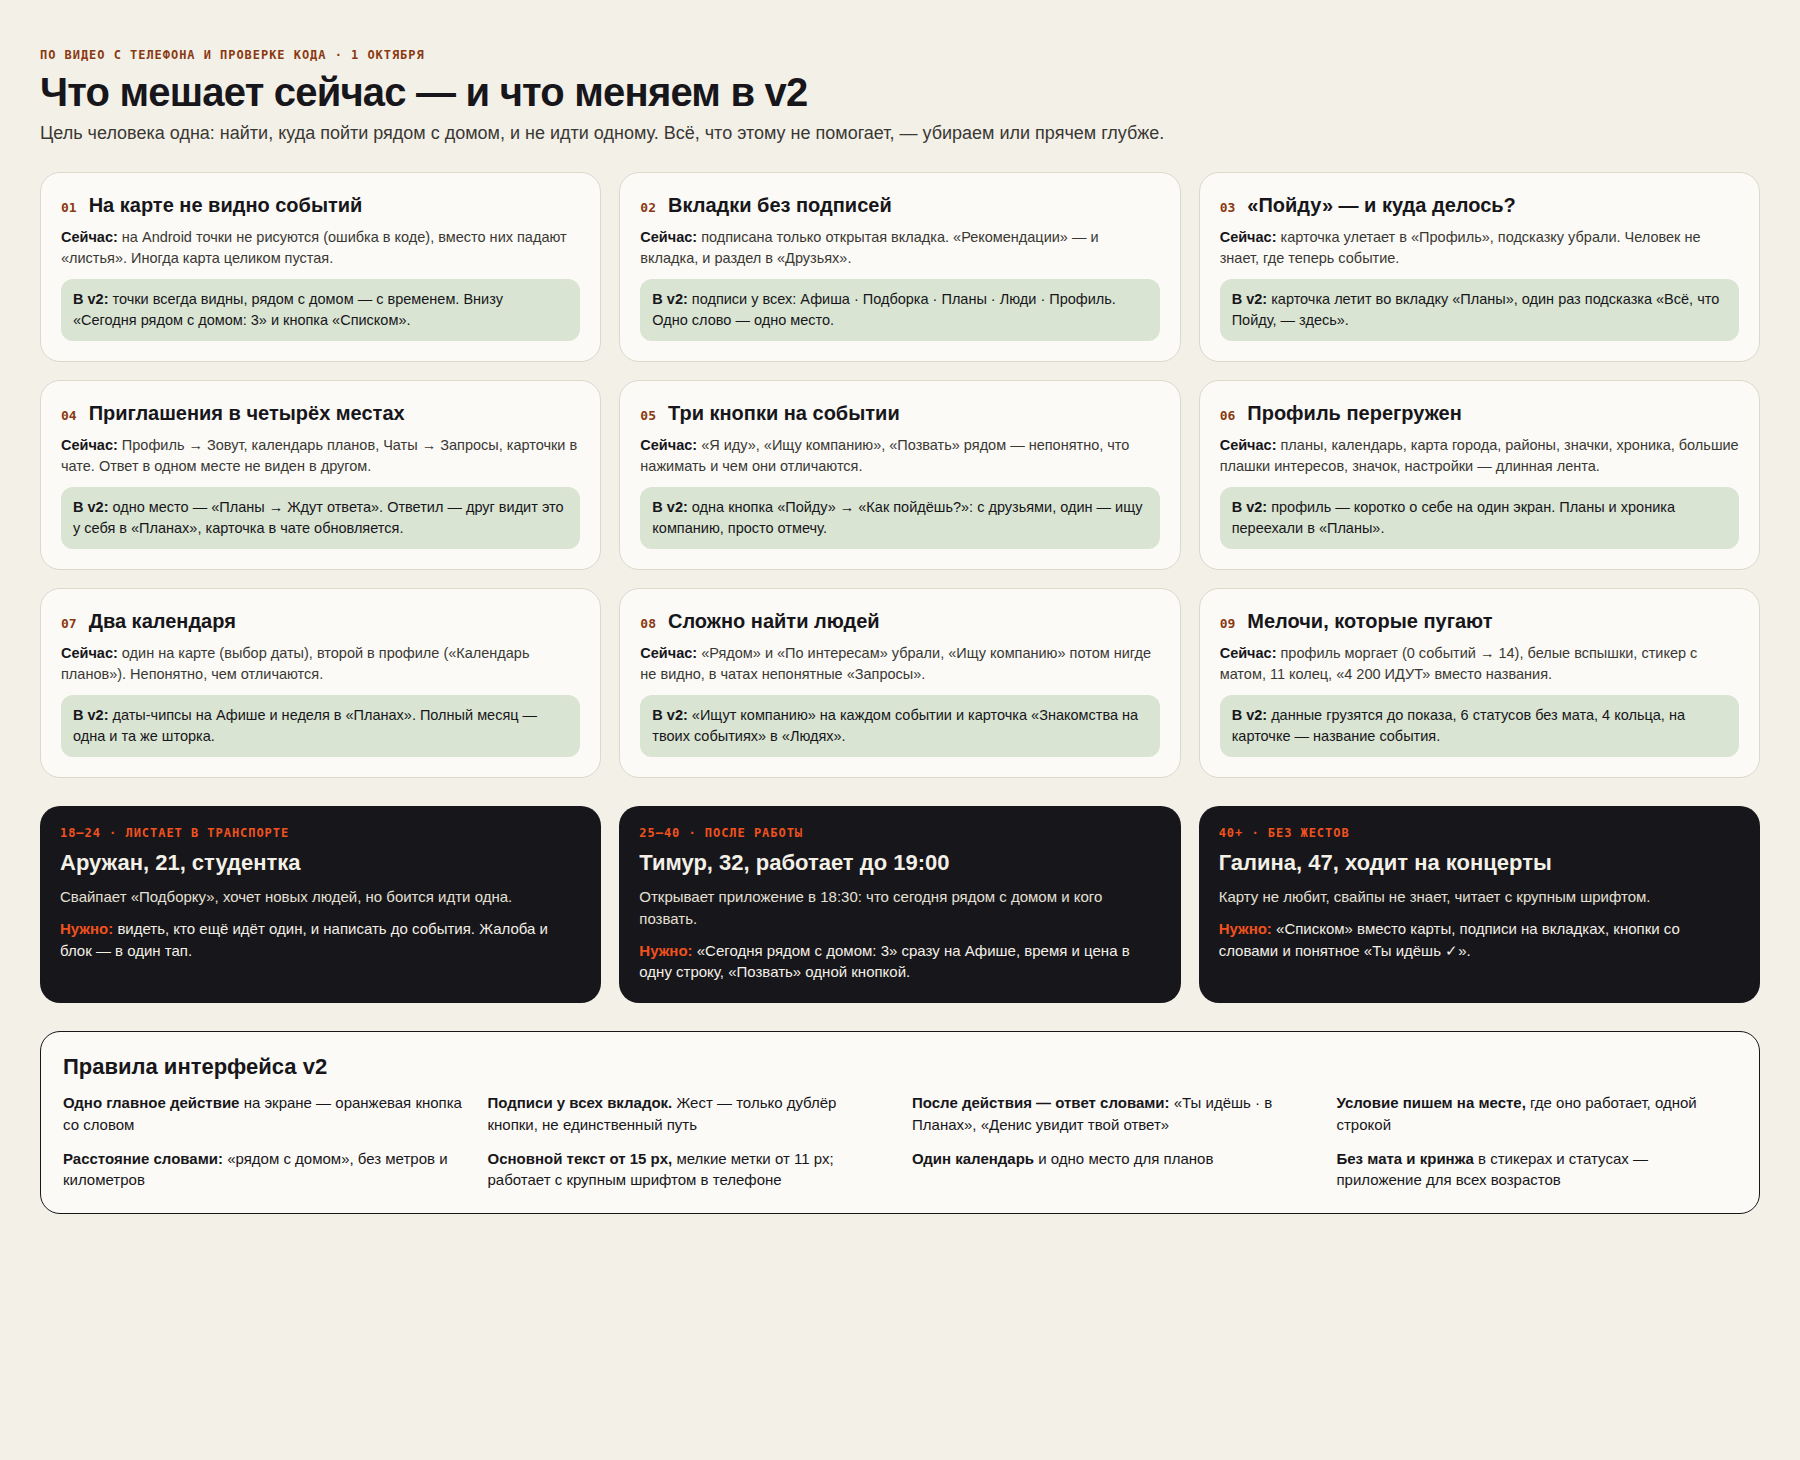
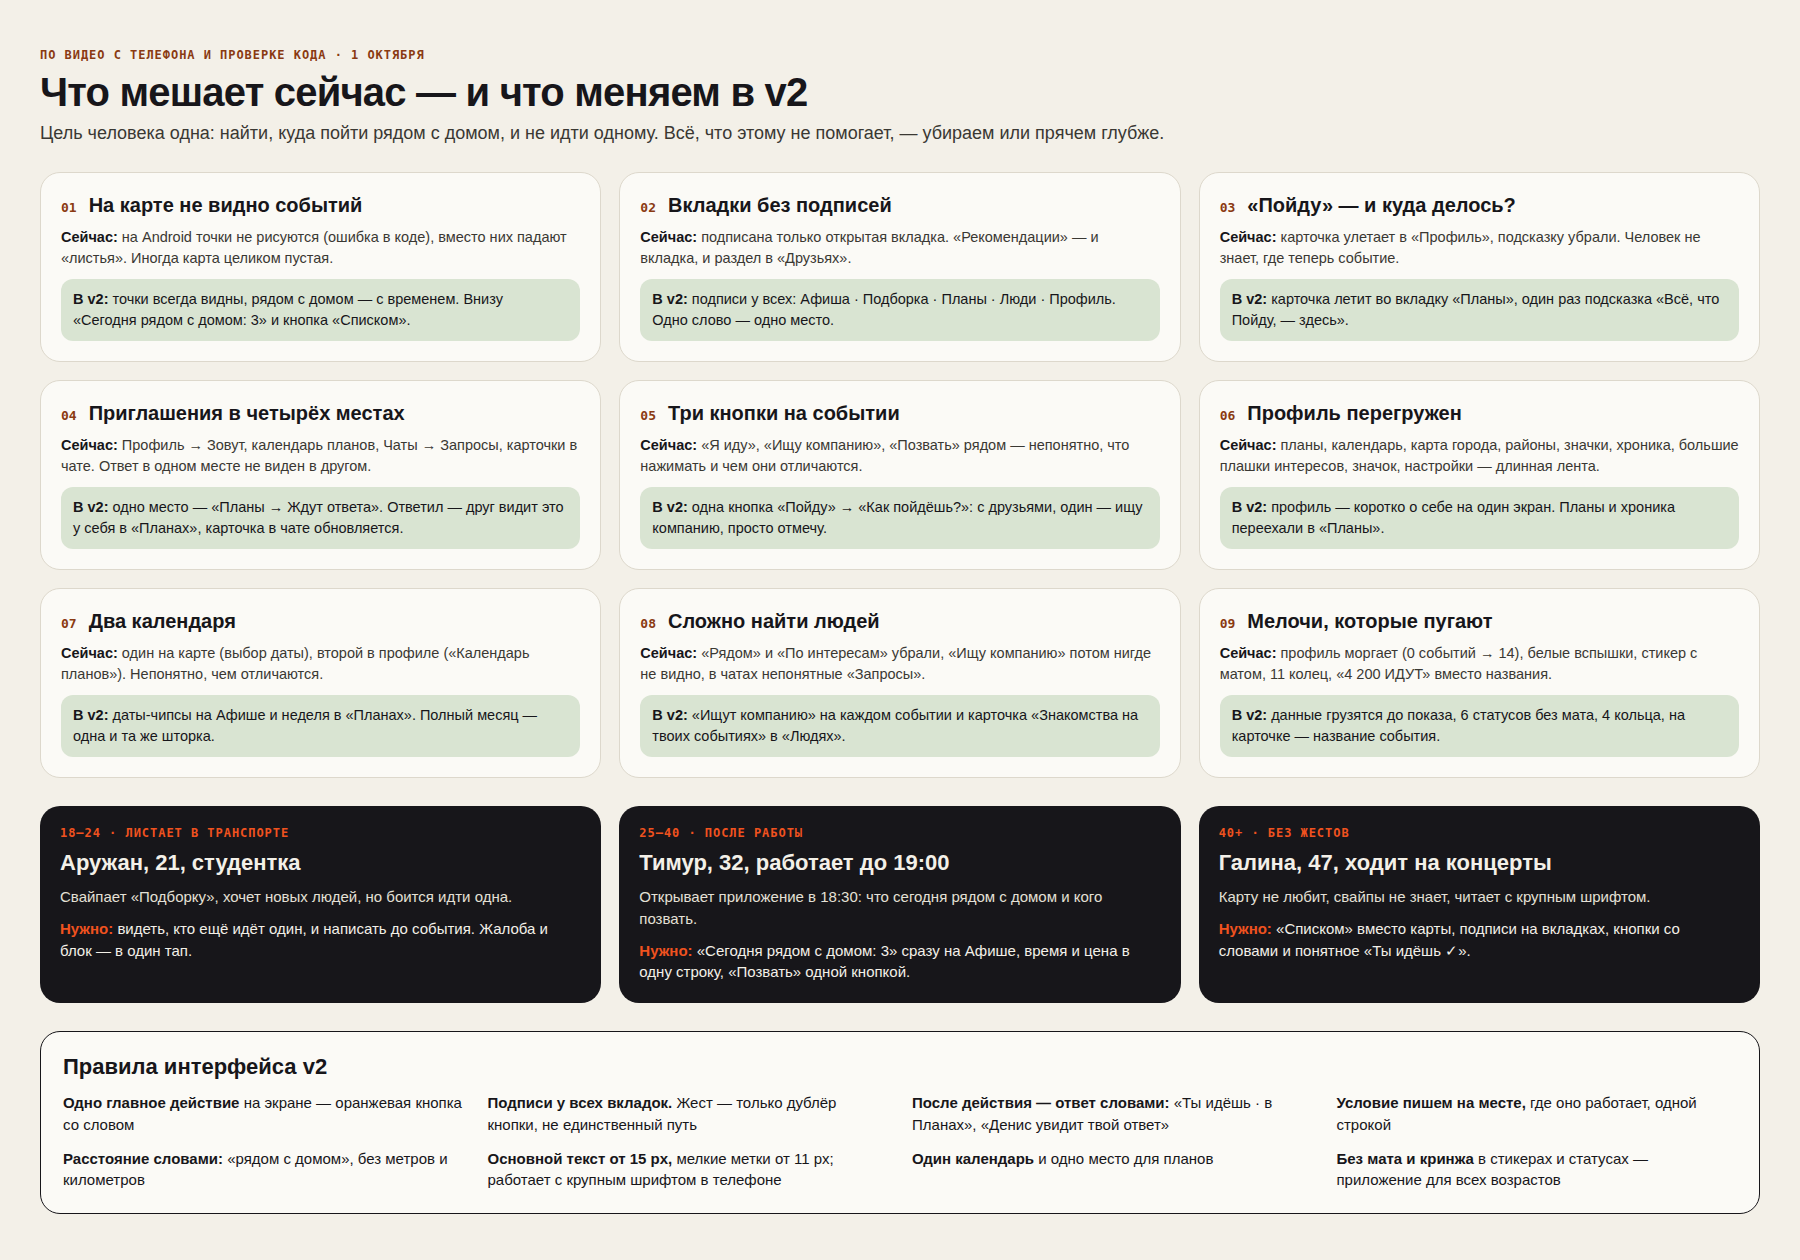
Trim v2 analysis board height
Claude-Session: https://claude.ai/code/session_01FGWnHsWFev2gXZTWiqPAHD

diff --git a/design/screens/V2Why.dc.html b/design/screens/V2Why.dc.html
@@ -11,7 +11,7 @@
 <link rel="stylesheet" href="https://fonts.googleapis.com/css2?family=Geologica:wght@400;500;600;700;800&amp;family=Golos+Text:wght@400;500;600;700&amp;family=JetBrains+Mono:wght@400;500;600&amp;display=swap">
 <style>body{margin:0;background:#E9E5DB}</style>
 </helmet>
-<div style="width: 1800px; height: 1460px; box-sizing: border-box; padding: 48px 40px; background: #F3F0E8; color: #17161A; font-family: 'Golos Text', sans-serif; display: flex; flex-direction: column; gap: 28px">
+<div style="width: 1800px; height: 1260px; box-sizing: border-box; padding: 48px 40px; background: #F3F0E8; color: #17161A; font-family: 'Golos Text', sans-serif; display: flex; flex-direction: column; gap: 28px">
 <div style="display: flex; flex-direction: column; gap: 8px">
 <span style="font-family: 'JetBrains Mono', monospace; font-size: 12px; font-weight: 600; letter-spacing: 0.08em; color: #8A3A12">ПО ВИДЕО С ТЕЛЕФОНА И ПРОВЕРКЕ КОДА · 1 ОКТЯБРЯ</span>
 <h1 style="margin: 0; font-family: 'Geologica', sans-serif; font-size: 40px; font-weight: 700; letter-spacing: -0.02em">Что мешает сейчас — и что меняем в v2</h1>
@@ -57,7 +57,7 @@
 </div>
 </div>
 </x-dc>
-<script type="text/x-dc" data-dc-script data-props='{"$preview":{"width":1800,"height":1460}}'>
+<script type="text/x-dc" data-dc-script data-props='{"$preview":{"width":1800,"height":1260}}'>
 class Component extends DCLogic {
   renderVals() {
     const problems = [
